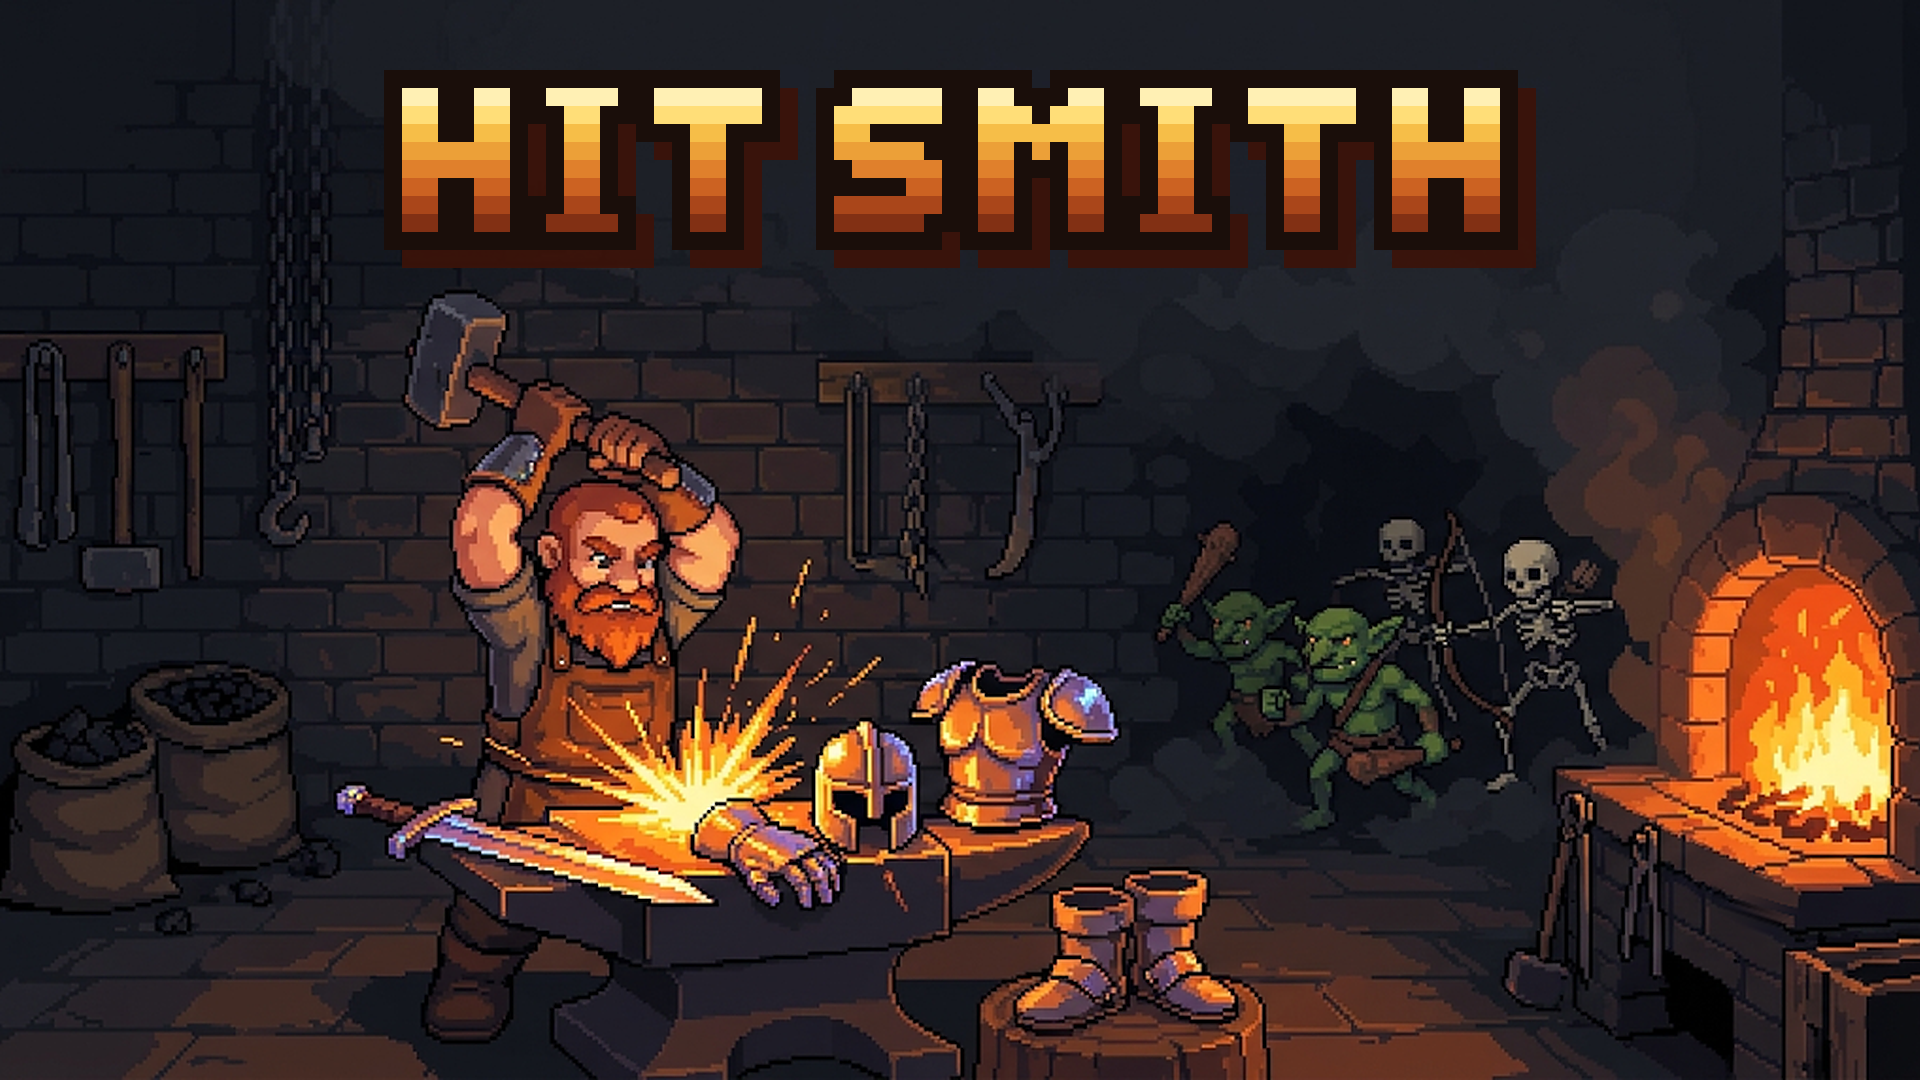
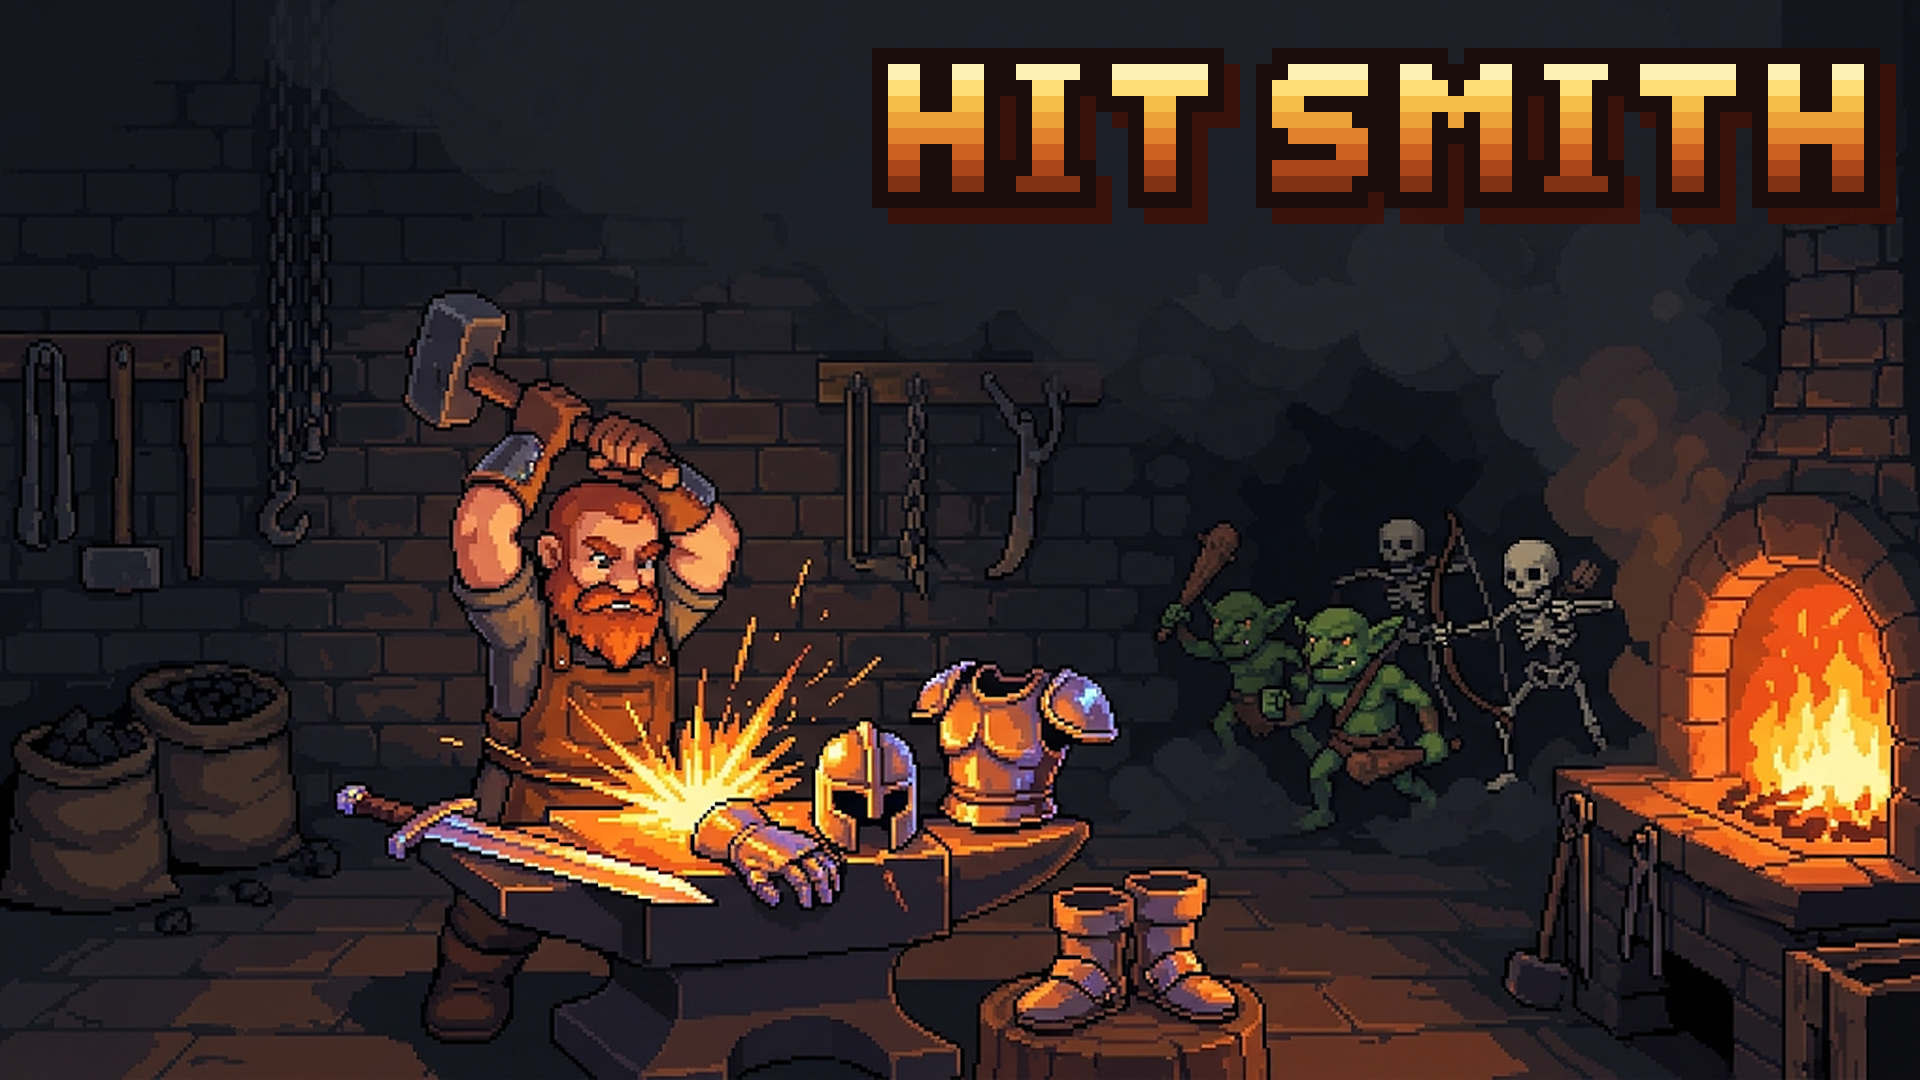
028: submitted to CrazyGames Basic Launch (awaiting review); covers v2

Changed region(s): [[0.1875, 0.0306, 1.0, 0.275]]

diff --git a/plans/028-crazygames-submit.md b/plans/028-crazygames-submit.md
@@ -1,9 +1,12 @@
 # 028 — CrazyGames Basic Launch 제출 · 담당: 사용자 + 계획 세션
 
-상태: **대기 — 035(표지·영상) 완료 뒤.** 게임 코드는 건드리지 않는다.
+상태: **제출 완료 2026-10-02 — AWAITING REVIEW** (Build ID `01da586a-a4b6-47b8-934a-3e7055d7015f`). 게임 코드는 건드리지 않는다.
 빌드: **034 검증 통과본**(`9f805e49…`). 제출 뒤에도 파일은 언제든 다시 올릴 수 있다(보통 당일 처리, FAQ).
 
 ## 1. 업로드 묶음 — `index.html` 한 장
+
+⚠ **정정(2026-10-02 포털 실측): 포털은 zip 을 받지 않는다**(「Archive files are not supported」).
+아래 명령으로 만든 **`upload\index.html` 파일 하나를 업로드 칸에 직접 끌어 놓는다.** zip 줄은 무시.
 
 CrazyGames 에 올릴 묶음은 **`src/forge.html` 을 `index.html` 이라는 이름으로 담은 zip 하나**다.
 게임이 정말로 파일 하나라서(외부 요청 0, 상대경로 자원 0) 리다이렉트 페이지를 끼울 이유가 없다.
@@ -67,3 +70,24 @@ Compress-Archive -Path upload\index.html -DestinationPath hit-smith-upload.zip
 
 ## 구현 결과 · 제안 · 검증 기록
 - (각 세션이 기록 — **재작성 시 이 절을 지우지 말 것**)
+- **계획 세션 2026-10-02 — 업로드·미리보기 기록.**
+  - 포털 1단계(Upload) 입력: Game name `Hit Smith` · engine `HTML5` · 파일 `index.html`(md5 `9F805E49…`, zip 거부됨) ·
+    저장 = **「Yes, using LocalStorage (refer to Automatic Progress Save)」**(HTML5 를 고르면 넷째 선택지로 생긴다) ·
+    mobile ✔ · orientation `BOTH` · multiplayer ✗ · SDK 음소거 ✗.
+  - 저장 선택지 아래 경고 「For iframe games our Automatic Progress Save does not work」 — **URL 을 iframe 으로 등록한 게임**
+    얘기로 판단(우리는 파일 업로드). ⚠ 추정이다 — Basic Launch 중 **다른 기기·로그인으로 진행이 이어지는지** 실측.
+    안 이어지면 029 에서 Data 모듈로 간다.
+  - 미리보기 실측: 총 0.3MB · 로드 0.1MB · 로드 1.8초 · SDK 패널 **Gameplay Start 초록** ·
+    게임 프레임 콘솔 `__view.plat` → **`{env:'crazygames', ready:true, adsOn:false, paused:false, blocked:false}`** ·
+    한국어 브라우저 → 한국어. 콘솔 빨간 줄(sharethrough·alkimi·googlesyndication 등)은 **포털 광고 스크립트**, 우리 것 아님.
+  - 첫 캡처에서 위가 잘려 보인 것은 **CrazyGames 페이지가 스크롤된 것**이었다 — 맨 위로 올린 화면에서 HUD·무대·패널·탭 전부 보임(≈1054×580 프레임).
+- **029 에 미치는 것**: Full Launch 의 진행 저장 요건은 Data 모듈 · 자체 백엔드 · **APS** 중 하나(account-integration 문서, 인앱 결제 없는 게임만 APS).
+  APS 가 실측으로 동작하면 **029 의 「Data 모듈 양쪽 쓰기」는 빠진다** — 029 는 `ADS_LIVE` · 광고 실패 알림 · 티켓 훅만 남는다.
+- **계획 세션 2026-10-02 — 제출 완료.** 상태 `AWAITING REVIEW`, 카테고리 Clicker, Build `01da586a-…7015f`(= `src/forge.html` md5 `9f805e49…`).
+  - QA 체크리스트(Basic): 자동 2(용량·Gameplay Start) + 수동 전부 Yes · 약관/개인정보 = N/A.
+  - Details: 정사각 표지는 사용자가 **`cover-square-alt.png`**(망치 클로즈업) 선택. 표지 v2 — 포털 자르기 창의 **왼쪽 위 라벨 자리**(가로 ≈764×211 · 세로 ≈317×118 · 정사각 ≈280×240px)를 피해 제목을 옮김(`compose2.py`, 계획 세션 scratch).
+    영상은 v2 표지로 다시 이음.
+  - **「The game works well in fullscreen」 끔** — 1920×1080 에서 UI 가 위 45%만 채운다(036). 036 반영 빌드에서 다시 켠다.
+  - Billing(Tipalti): 개인 · 국내 계좌 KRW · EU VAT 미등록. 지급 최소 USD 100, 건당 EUR 6.42 + 환전 수수료.
+  - 포털 함정: zip 거부(파일 직접) · 저장 질문의 넷째 선택지는 HTML5 를 골라야 생김 · Billing 미등록이면 4단계에 「Error fetching payment details」.
+- **심사 중 원칙**: 심사 결과가 오기 전에는 **새 버전을 올리지 않는다**(심사 대상이 바뀐다). 036·025-2 는 저장소에서 진행하고 결과를 받은 뒤 한 번에 올린다.

diff --git a/docs/ROADMAP.md b/docs/ROADMAP.md
@@ -26,9 +26,9 @@
 | 6⅞+++ | **034** 영어 + 한국어 (글자 표 하나, 브라우저 언어로 고름) | 코딩 → 검증 | 사용자 판정 2026-09-29 · 028 차단 |
 | 6⅞++++ | **035** 제출 자산 — 표지 3장(1920×1080·800×1200·800×800) · 영상 2개(15~20초, 1080p 가로·세로, 무음) · 업로드 묶음 | 사용자(표지) + 검증(영상) | **완료 2026-10-02** — `submission/` (영상은 무시 목록, 표지·레시피는 추적) |
 | 7 | **025 2단계** 승천 체류 보상 | 코딩 → 검증 | 상수 확정: `peak × (1-e^(-Δt/4h))` · **028 Basic 제출 뒤 QA 기간에 해도 된다** (첫 승천이 5일차라 QA 첫인상과 무관) |
-| 8 | **028** CrazyGames Basic Launch 제출 | 사용자 + 계획 | 광고 꺼짐. 검문: `CG_HOSTS`=사이트락(확인됨 2026-09-29), `plat.env` · 제출 뒤에도 파일 갱신 가능(보통 당일) |
+| 8 | **028** CrazyGames Basic Launch 제출 — **제출 완료 2026-10-02 · AWAITING REVIEW** (`env:'crazygames'` 확인) | 사용자 + 계획 | 광고 꺼짐. 검문: `CG_HOSTS`=사이트락(확인됨 2026-09-29), `plat.env` · 제출 뒤에도 파일 갱신 가능(보통 당일) |
 | 8½ | **036 후보** 큰 가로 화면 채우기 — 1920×1080 CSS 뷰포트에서 UI 가 위 45%만 채움(031 §4 의 내용 크기 패널 결과, `TB8` 은 「보이는가」만 봄) | 계획 → 코딩 | 035 영상 작업에서 발견 · **제출 차단 아님**(주력 iframe 821×462~1216×684) · Basic Launch 중 |
-| 9 | **029** Full Launch 준비 | 코딩 → 검증 | Data 모듈(양쪽 쓰기) · `ADS_LIVE` · `adError` 한 줄 · **티켓 훅 판정** |
+| 9 | **029** Full Launch 준비 | 코딩 → 검증 | `ADS_LIVE` · `adError` 한 줄 · **티켓 훅 판정** · 저장은 **APS(localStorage 자동 백업)** 로 신고함 — Basic 중 기기 간 이어짐 실측, 안 되면 Data 모듈(양쪽 쓰기) |
 | — | **1.0 완주** | | 이후 운영 없이 돈다 |
 
 **1.0 이후 — 실제 플레이어 반응이 입력일 때만 연다.** 추측으로 튜닝하지 않는다.
